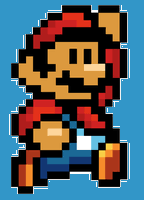
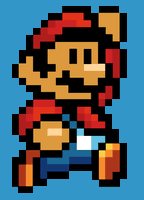
changed title text, added scrolling background, fixed play again option

diff --git a/sketch.js b/sketch.js
@@ -16,10 +16,16 @@ let thirdTime = true;
 let fourthTime = true;
 let fifthTime = true;
 let sixthTime = true;
+var cloudImg;
+var x1 = 0;
+var x2;
+
+var scrollSpeed = 2;
 
 function preload() {
   playerImg = loadImage('assets/player/mariolevel1.png');
   coinImg = loadImage('assets/coin/coinlevel1.png')
+  cloudImg = loadImage("assets/misc/clouds.png");
 }
 
 function setup() {
@@ -31,6 +37,8 @@ function setup() {
 
   //coins[0] = new Coin();
   coins.push(new Coin());
+
+  x2 = width;
 }
 
 function draw() {
@@ -91,7 +99,8 @@ function title() {
   text('Coin Collector', w/2, h/5);
 
   textSize(30);
-  text('Click Anywhere To Start', w/2, h/2);
+  text('Chasing Nostalgia', w/2, h/3);
+  text('Click Anywhere To Start', w/2, 4*h/5);
 }
 
 function titleMouseClicked() {
@@ -100,8 +109,20 @@ function titleMouseClicked() {
 }
 
 function level1() {
-  background(50, 150, 200);
+  //background(50, 150, 200);
   // text('click for points', w/2, h - 30);
+  image(cloudImg, x1, 0, width, height);
+  image(cloudImg, x2, 0, width, height);
+
+  x1 -= scrollSpeed;
+  x2 -= scrollSpeed;
+
+  if (x1 < -width){
+    x1 = width;
+  }
+  if (x2 < -width){
+    x2 = width;
+  }
 
   if(random(1) <= 0.01) {
     coins.push(new Coin());
@@ -223,4 +244,12 @@ function youWin() {
 function youWinMouseClicked() {
   state = 'level 1';
   points = 0;
+  playerImg = loadImage('assets/player/mariolevel1.png');
+  coinImg = loadImage('assets/coin/coinlevel1.png')
+  firstTime = true;
+  secondTime = true;
+  thirdTime = true;
+  fourthTime = true;
+  fifthTime = true;
+  sixthTime = true;
 }
